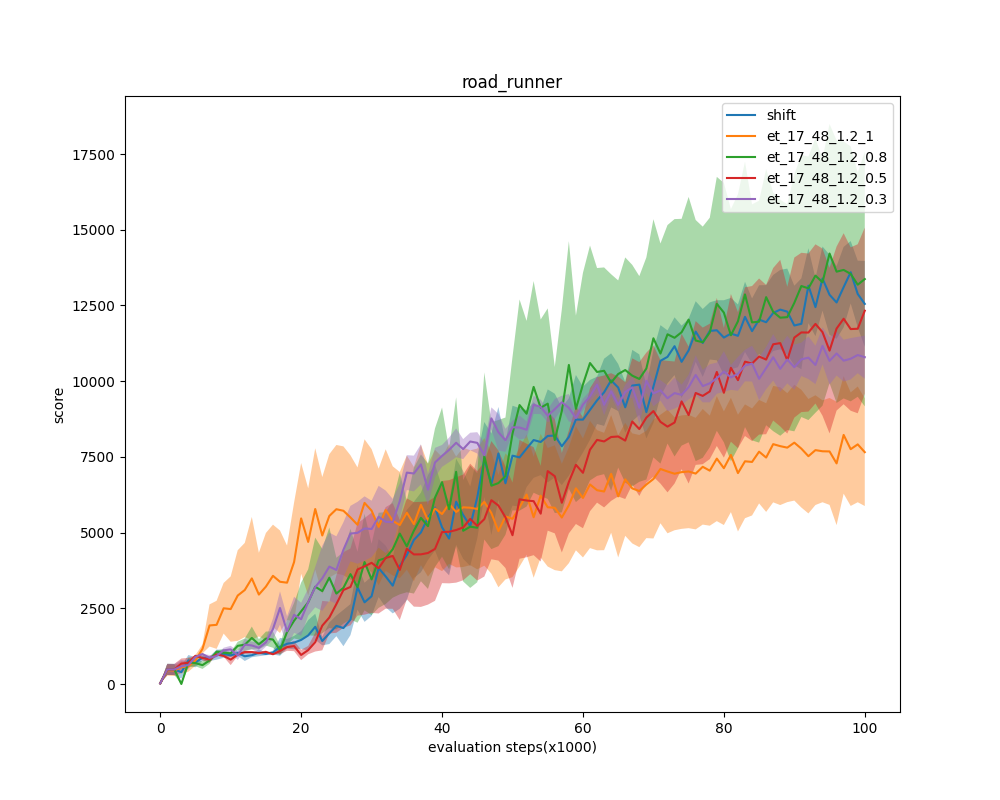
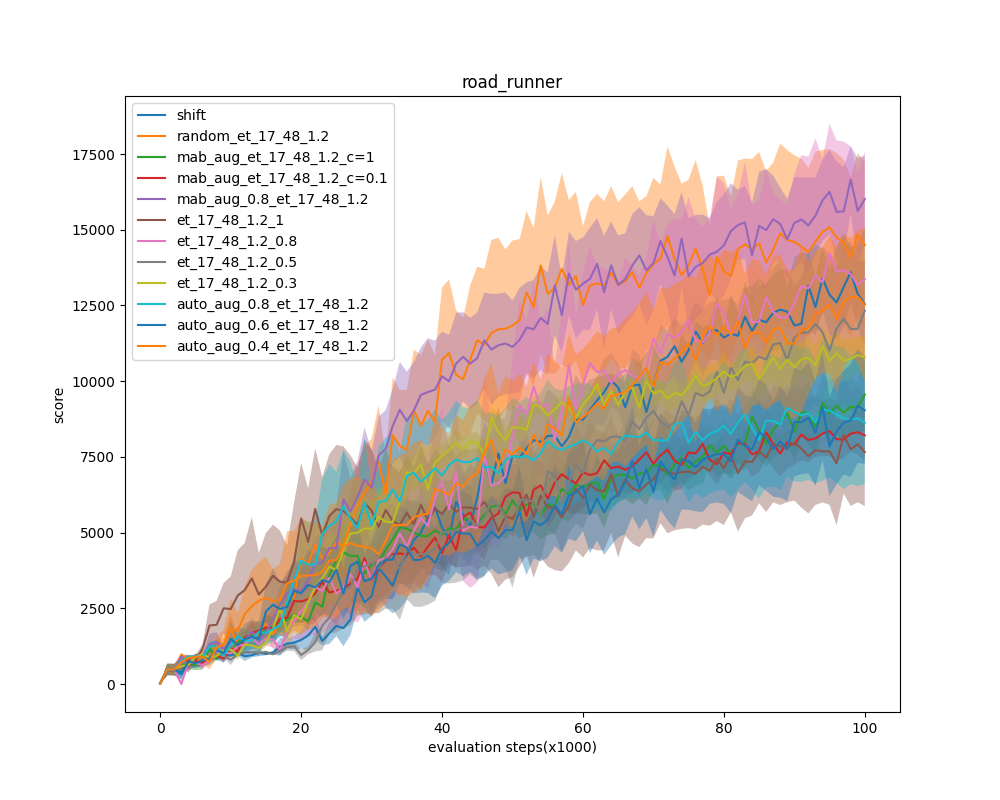
auto aug

Changed region(s): [[0.155, 0.125, 0.899, 0.875], [0.124, 0.125, 0.372, 0.4688]]

diff --git a/src/models.py b/src/models.py
@@ -15,7 +15,7 @@ from kornia.augmentation.container import AugmentationSequential
 from kornia.filters import GaussianBlur2d
 import copy
 import wandb
-from rlpyt.diff import Diffeo
+# from rlpyt.diff import Diffeo
 from collections import deque
 
 
@@ -143,6 +143,13 @@ class SPRCatDqnModel(torch.nn.Module):
                 alpha = float(params[4])
                 transformation = (kernel, sigma, alpha)
                 eval_transformation = nn.Identity()
+            elif aug == 'auto_aug':
+                transformation = [RandomElasticTransform(kernel_size=(17, 17), 
+                                                        sigma=(48, 48),
+                                                        alpha=(1.2, 1.2), 
+                                                        p=prob*0.1, 
+                                                        same_on_batch=False, keepdim=True) for prob in range(1, 11)]
+                eval_transformation = nn.Identity()
             elif aug == "diffeo":
                 transformation = Diffeo()
                 eval_transformation = nn.Identity()
@@ -181,6 +188,8 @@ class SPRCatDqnModel(torch.nn.Module):
 
         self.past_q = [deque([0], maxlen=10) for _ in range(10)]
         self.aug_idx = 0
+        self.aug_t = 0
+        self.aug_counter = [1]*10
 
         if dueling:
             self.head = DQNDistributionalDuelingHeadModel(self.hidden_size,
@@ -415,6 +424,20 @@ class SPRCatDqnModel(torch.nn.Module):
                                       self.momentum_tau)
         return spr_loss
 
+    def update_transform(self, reward, c=10):
+        if type(self.transforms[0]) == list:
+            self.aug_t += 1
+            self.past_q[self.aug_idx].append(reward)
+            print(reward)
+            # print(self.past_q)
+            print([np.mean(dq) + c*np.sqrt(np.log(self.aug_t)/self.aug_counter[i]) for i, dq in enumerate(self.past_q)])
+            self.aug_idx = np.argmax([np.mean(dq) + c*np.sqrt(np.log(self.aug_t)/self.aug_counter[i]) for i, dq in enumerate(self.past_q)])
+            print(self.aug_idx)
+            # if np.random.rand() < 0.8:
+            #     self.aug_idx = np.argmax([np.mean(dq) for dq in self.past_q])
+            # else:
+            #     self.aug_idx = np.random.randint(10)
+
     def apply_transforms(self, transforms, eval_transforms, image):
         if eval_transforms is None:
             for transform in transforms:
@@ -430,10 +453,11 @@ class SPRCatDqnModel(torch.nn.Module):
                                                         p=random_p, 
                                                         same_on_batch=False, keepdim=True)
                 elif type(transform) == list:
-                    if np.random.rand() < 0.6:
-                        self.aug_idx = np.argmax(np.mean(self.past_q, axis=1))
-                    else:
-                        self.aug_idx = np.random.randint(10)
+                    # if np.random.rand() < 0.2:
+                    #     self.aug_idx = np.argmax([np.mean(dq) for dq in self.past_q])
+                    # else:
+                    #     self.aug_idx = np.random.randint(10)
+                    # print(self.aug_idx)
                     transform = transform[self.aug_idx]
                 image = maybe_transform(image, transform,
                                         eval_transform, p=self.aug_prob)
@@ -543,8 +567,11 @@ class SPRCatDqnModel(torch.nn.Module):
             else:
                 spr_loss = torch.zeros((self.jumps + 1, observation.shape[1]), device=latent.device)
 
-            if type(self.transforms[0]) == list:
-                self.past_q[self.aug_idx].append(pred_reward[0].mean().item())
+            # if type(self.transforms[0]) == list:
+            #     rd = np.array([item.cpu().detach().numpy() for item in pred_reward])
+            #     # print(rd)
+            #     self.past_q[self.aug_idx].append(rd.mean())
+            #     # print(self.past_q)
 
             return log_pred_ps, pred_reward, spr_loss
 

diff --git a/src/algos.py b/src/algos.py
@@ -53,6 +53,8 @@ class SPRCategoricalDQN(CategoricalDQN):
             self.rl_loss = self.dqn_rl_loss
         else:
             self.rl_loss = self.dist_rl_loss
+        
+        self.sum_reward = 0
 
     def initialize_replay_buffer(self, examples, batch_spec, async_=False):
         example_to_buffer = ModelSamplesToBuffer(
@@ -111,9 +113,6 @@ class SPRCategoricalDQN(CategoricalDQN):
             value=samples.agent.agent_info.p,
         )
 
-    # def eval_agent_invariance(self, ):
-        # Q
-
     def optimize_agent(self, itr, samples=None, sampler_itr=None):
         """
         Extracts the needed fields from input samples and stores them in the
@@ -124,6 +123,15 @@ class SPRCategoricalDQN(CategoricalDQN):
         """
         itr = itr if sampler_itr is None else sampler_itr  # Async uses sampler_itr.=
         if samples is not None:
+            self.sum_reward += samples.env.reward[0][0]
+            if samples.env.done:
+                self.model.update_transform(self.sum_reward)
+                self.sum_reward = 0
+            # print(type(samples))
+            # print(samples)
+            # print(samples.env.reward)
+            # print(samples.env.done)
+            # raise NotImplementedError
             samples_to_buffer = self.samples_to_buffer(samples)
             self.replay_buffer.append_samples(samples_to_buffer)
         opt_info = ModelOptInfo(*([] for _ in range(len(ModelOptInfo._fields))))
